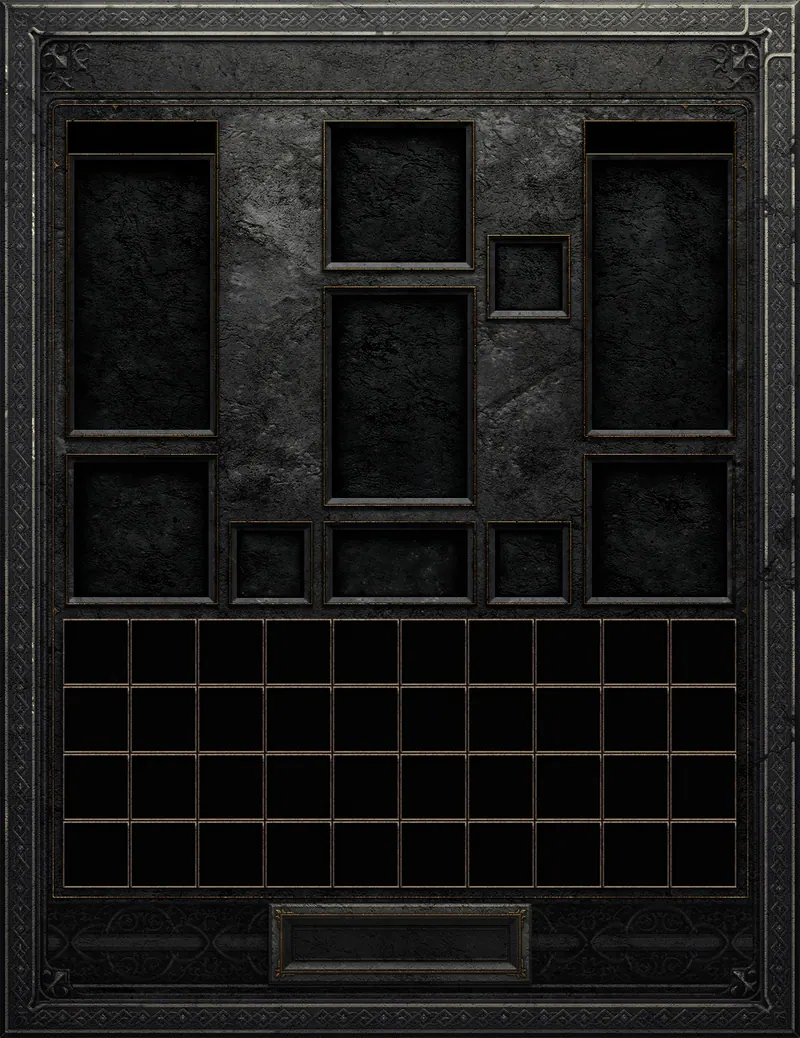
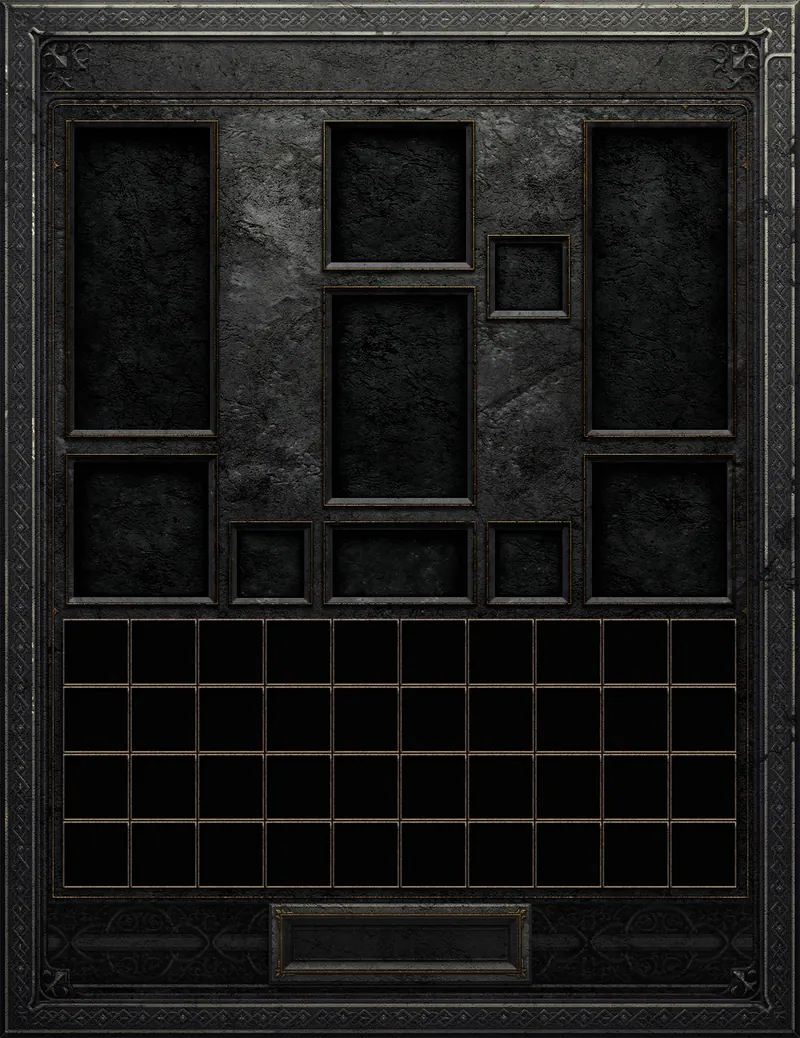
fix(d2r): casilleros de arma de una pieza y resistencias explicadas en el planificador
- Los casilleros del arma y del escudo traían arriba la franja de las pestañas
  I/II del juego, que en el planificador quedaba como un rectángulo negro vacío:
  extract.py estira el fondo del casillero hasta el borde del marco (y corta si
  el panel cambia en un parche) y se regeneró inventory.webp.
- Las resistencias en Pesadilla e Infierno se veían siempre negativas sin
  explicación: cada una dice cuánto suma el equipo y una nota aclara que la
  dificultad resta 40 o 100, como en la hoja del personaje. La cuenta pasa a
  una función (resistances) con su test.

diff --git a/site/src/d2r/D2rPlanner.tsx b/site/src/d2r/D2rPlanner.tsx
@@ -60,6 +60,20 @@ const CLASS_TYPES = ["amaz", "sorc", "necr", "pala", "barb", "drui", "assn", "wa
 /** La penalidad a las resistencias en Normal, Pesadilla e Infierno. */
 const RES_PENALTY = [0, 40, 100];
 
+/**
+ * Las cuatro resistencias como las muestra la hoja del personaje: lo que suma el equipo menos la penalidad de la
+ * dificultad, con el tope de 75 (más lo que sume la resistencia máxima). En Infierno arrancan en −100: con poco
+ * equipo quedan negativas, y es lo que ve el juego.
+ */
+export function resistances(val: (stat: string) => number, d: number) {
+  return (["fire", "cold", "light", "poison"] as const).map((r) => {
+    const gear = val(`${r}resist`);
+    const raw = gear - RES_PENALTY[d];
+    const cap = 75 + val(`max${r}resist`);
+    return { key: r, gear, raw, shown: Math.min(raw, cap), cap };
+  });
+}
+
 type Ref = { k: "u" | "s" | "r"; id: string };
 type Build = { c: number; l: number; d: number; p: "max" | "min"; s: Partial<Record<SlotKey, Ref>>; ch: Ref[] };
 const EMPTY: Build = { c: 1, l: 90, d: 2, p: "max", s: {}, ch: [] };
@@ -196,11 +210,7 @@ export default function D2rPlanner(_: { route: Route; navigate: (r: Route) => vo
 
   const val = (name: string) => stats.filter((s) => s.s === name).reduce((n, s) => n + s.max, 0);
   // "Todas las resistencias" ya llega partida en las cuatro (res-all pone las cuatro stats).
-  const res = (["fire", "cold", "light", "poison"] as const).map((r) => {
-    const raw = val(`${r}resist`) - RES_PENALTY[b.d];
-    const cap = 75 + val(`max${r}resist`);
-    return { key: r, raw, shown: Math.min(raw, cap), cap };
-  });
+  const res = resistances(val, b.d);
   const reqLevel = Math.max(0, ...equipped.map((e) => e.it.req));
   const lines = useMemo(() => describe(stats, E, lang, b.l).map((l) => l.text), [stats, lang, b.l]);
 
@@ -333,10 +343,13 @@ export default function D2rPlanner(_: { route: Route; navigate: (r: Route) => vo
                   <li key={r.key} className={`is-${r.key}`}>
                     <span>{tp.res[r.key]}</span>
                     <b className={r.shown < 0 ? "is-neg" : r.shown >= r.cap ? "is-cap" : ""}>{r.shown}%</b>
-                    {r.raw > r.cap && <small>+{r.raw - r.cap}</small>}
+                    {RES_PENALTY[b.d] > 0 && <small>{tp.resGear(r.gear)}</small>}
+                    {r.raw > r.cap && <small>{tp.resOver(r.raw - r.cap)}</small>}
                   </li>
                 ))}
               </ul>
+              {/* Sin esto, un −90% en Infierno parecía un error: es la penalidad de la dificultad, como en el juego. */}
+              {RES_PENALTY[b.d] > 0 && <p className="d2-plan-note">{tp.resPenalty(tp.diffs[b.d], RES_PENALTY[b.d])}</p>}
               <h2 className="d2-h3">{tp.speeds}</h2>
               <dl className="d2-plan-kv">
                 {(

diff --git a/site/test/d2rPlanner.test.ts b/site/test/d2rPlanner.test.ts
@@ -1,0 +1,23 @@
+import { describe, expect, it } from "vitest";
+import { resistances } from "../src/d2r/D2rPlanner";
+
+/** Lo que suma el equipo para cada stat, como lo lee el planificador. */
+const gear = (m: Record<string, number>) => (stat: string) => m[stat] ?? 0;
+
+describe("las resistencias del planificador, como en la hoja del personaje", () => {
+  it("en Infierno arrancan en −100: +50 de fuego y +10 de lo demás dan −50 y −90", () => {
+    const r = resistances(gear({ fireresist: 50, coldresist: 10, lightresist: 10, poisonresist: 10 }), 2);
+    expect(r.map((x) => x.shown)).toEqual([-50, -90, -90, -90]);
+    expect(r.map((x) => x.gear)).toEqual([50, 10, 10, 10]);
+  });
+
+  it("en Pesadilla restan 40", () => {
+    expect(resistances(gear({ poisonresist: 40 }), 1)[3].shown).toBe(0);
+  });
+
+  it("en Normal no hay penalidad, y el tope es 75 más la resistencia máxima", () => {
+    const r = resistances(gear({ fireresist: 50, coldresist: 120, maxcoldresist: 5 }), 0);
+    expect(r[0].shown).toBe(50);
+    expect(r[1]).toMatchObject({ raw: 120, cap: 80, shown: 80 });
+  });
+});

diff --git a/site/src/d2rCopy.ts b/site/src/d2rCopy.ts
@@ -243,6 +243,9 @@ const EN = {
     totals: "Totals",
     resist: "Resistances",
     res: { fire: "Fire", cold: "Cold", light: "Lightning", poison: "Poison" } as Record<string, string>,
+    resGear: (n: number) => `${n < 0 ? "−" : "+"}${Math.abs(n)} from gear`,
+    resOver: (n: number) => `+${n} over the cap`,
+    resPenalty: (diff: string, n: number) => `${diff}: every resistance starts at −${n}%, as on the game's character sheet.`,
     speeds: "Speeds",
     fcr: "Faster cast rate",
     fhr: "Faster hit recovery",
@@ -627,6 +630,9 @@ const ES: typeof EN = {
     totals: "Totales",
     resist: "Resistencias",
     res: { fire: "Fuego", cold: "Frío", light: "Rayo", poison: "Veneno" },
+    resGear: (n: number) => `${n < 0 ? "−" : "+"}${Math.abs(n)} del equipo`,
+    resOver: (n: number) => `+${n} sobre el tope`,
+    resPenalty: (diff: string, n: number) => `${diff}: cada resistencia arranca en −${n}%, como en la hoja del personaje del juego.`,
     speeds: "Velocidades",
     fcr: "Velocidad de lanzamiento",
     fhr: "Recuperación de golpe",

diff --git a/site/src/styles/d2r-wiki.css b/site/src/styles/d2r-wiki.css
@@ -314,6 +314,7 @@ a.d2-rune-row:hover { background: #1a1511; }
 .d2-plan-res .is-light b { color: #ffe066; }
 .d2-plan-res .is-poison b { color: #7ee05a; }
 .d2-plan-res b.is-neg { color: #ff4d4d; }
+.d2-plan-note { margin: 6px 0 0; font-size: 13px; color: var(--d2-dim); }
 @media (max-width: 420px) { .d2-plan-res { grid-template-columns: repeat(2, minmax(0, 1fr)); } }
 /* Cada etiqueta con su número al lado, no en los extremos de la fila. */
 .d2-plan-kv { display: grid; grid-template-columns: repeat(auto-fill, minmax(210px, 1fr)); gap: 4px 16px; margin: 0; }

diff --git a/games/d2r/tools/extract.py b/games/d2r/tools/extract.py
@@ -50,6 +50,33 @@ def save(im, rel, w=None, q=82, lossless=False):
     im.save(path, "WEBP", quality=q, method=5, lossless=lossless)
 
 
+# Los dos casilleros de arma del panel de inventario, a escala completa (1162×1507): x por dentro de las líneas del marco,
+# la línea de arriba del marco, la separadora de la franja de las pestañas I/II y la línea de abajo.
+WEAPON_SLOTS = [(98, 315), (850, 1067)]
+SLOT_TOP, SLOT_SEPARATOR, SLOT_BOTTOM = 175, 223, 624
+
+
+def weapon_slots_whole(im):
+    """
+    Los casilleros de arma traen arriba la franja de las pestañas I/II (cambiar de arma). En el planificador no hay
+    pestañas y la franja quedaba como un rectángulo negro vacío encima del casillero (ZoTaD, 2026-09-30): se estira el
+    fondo del casillero hasta la línea de arriba del marco, y cada uno queda de una pieza, como los demás. Si el panel
+    cambia en un parche, corta en vez de pintar mal.
+    """
+    im = im.convert("RGBA")
+    if im.size != (1162, 1507):
+        raise SystemExit(f"el panel del inventario cambió de tamaño ({im.size}): revisar WEAPON_SLOTS")
+    rgb = im.convert("RGB")
+    for x0, x1 in WEAPON_SLOTS:
+        mid = (x0 + x1) // 2
+        band = [sum(rgb.getpixel((x, y))) / 3 for x in range(x0 + 2, x1 - 2, 4) for y in range(SLOT_TOP + 3, SLOT_SEPARATOR - 2, 3)]
+        if sum(band) / len(band) > 10 or sum(rgb.getpixel((mid, SLOT_SEPARATOR))) / 3 < 90:
+            raise SystemExit("el panel del inventario cambió: la franja de las pestañas I/II no está donde se esperaba")
+        inside = im.crop((x0, SLOT_SEPARATOR + 1, x1, SLOT_BOTTOM))
+        im.paste(inside.resize((x1 - x0, SLOT_BOTTOM - SLOT_TOP - 1), Image.LANCZOS), (x0, SLOT_TOP + 1))
+    return im
+
+
 def bbox(frames):
     """El contorno visible común a todos los cuadros (los sprites traen margen transparente)."""
     box = None
@@ -160,7 +187,7 @@ def assets(c):
     # El panel de inventario del juego para el planificador: el muñeco con sus
     # diez casilleros y la grilla de abajo (donde van los talismanes), y la silueta
     # de cada casillero vacío.
-    save(first("panel/inventory/background"), "inventory", w=800, q=78)
+    save(weapon_slots_whole(first("panel/inventory/background")), "inventory", w=800, q=78)
     for slot in ["headarmor", "amulet", "weapon", "chestarmor", "shield", "glove", "belt", "boots", "ring"]:
         save(first(f"panel/inventory/inventory_paperdoll_{slot}"), f"paperdoll/{slot}", q=86)
 
